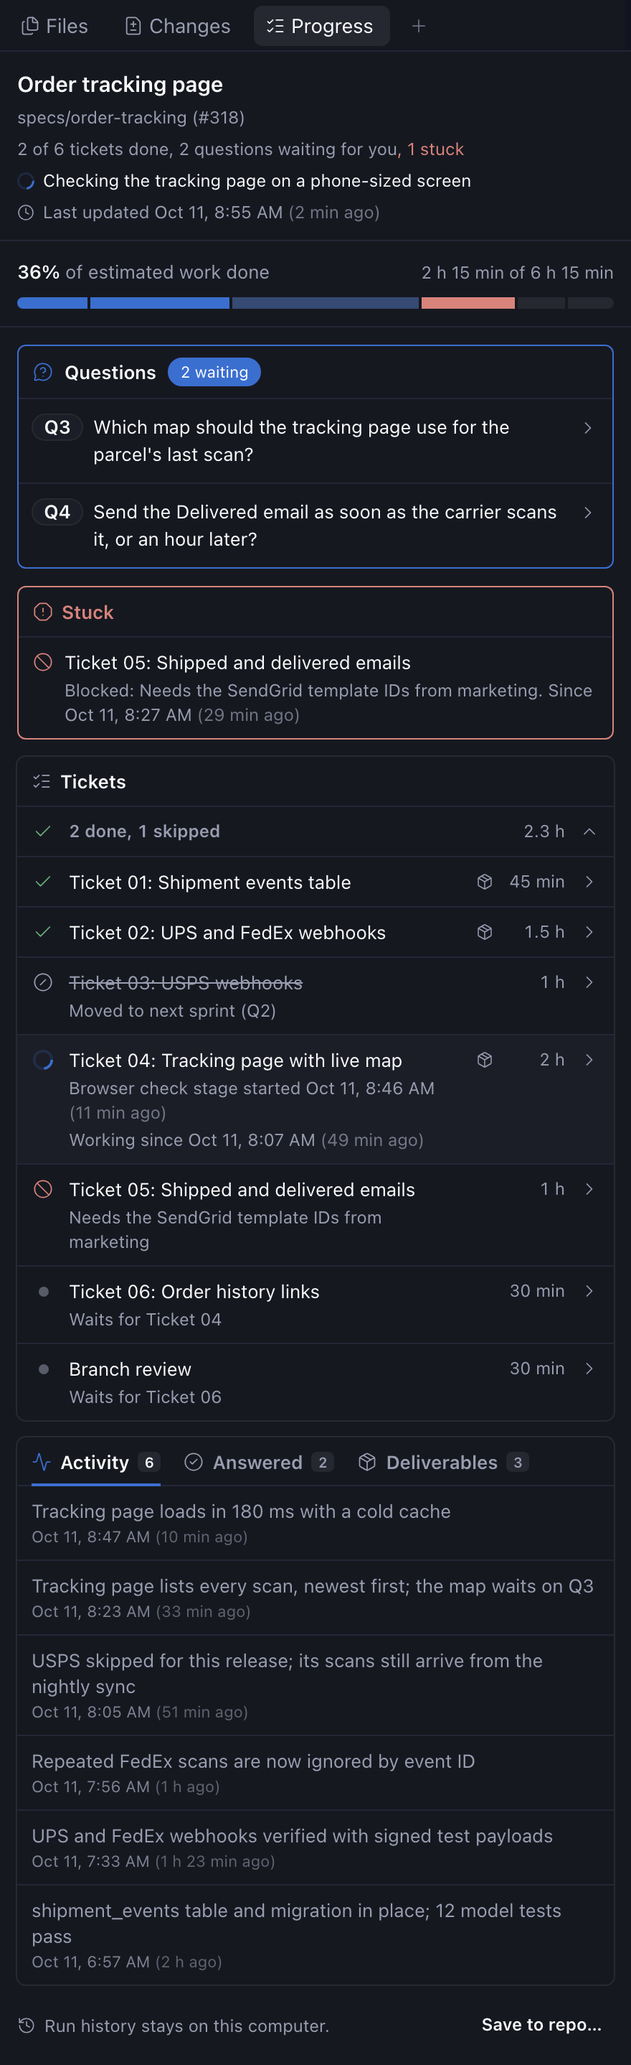
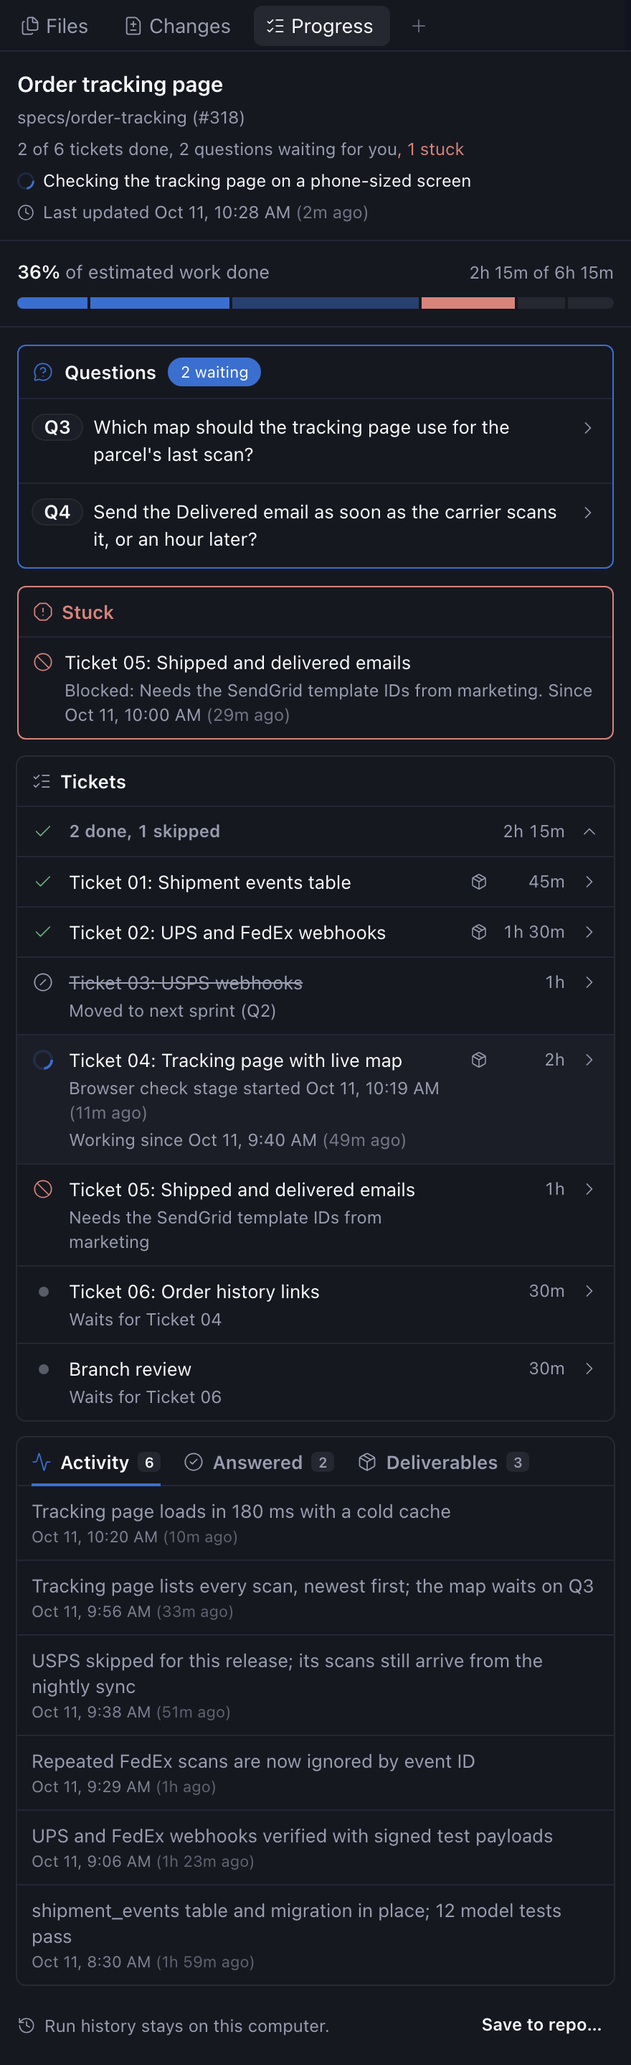
fix(progress): pill fits with something stuck, times stay in one piece, one duration style; bump to 1.0.0
The pill shortens questions to "2Q" when something is stuck, so it fits
Paseo's 160 px pill. Times like "(11m ago)" and durations inside sentences
wrap as one piece. Every duration uses the compact "2h 15m" style, and
estimates show the exact minutes instead of tenths of an hour.

diff --git a/progress/server/progress.test.ts b/progress/server/progress.test.ts
@@ -12,7 +12,7 @@ import type { PluginHandlerContext } from "@getpaseo/plugin/server";
 import { runCli } from "./cli.ts";
 import { handleGetAttention, handleGetDashboard, handleListFolders, handleMarkPanelOpened, handleSetHistoryFolder } from "./dashboard.ts";
 import { markPanelOpened, readProgress } from "./progress-file.ts";
-import { formatEstimate, formatMinutes, formatTimeOfDay, formatWorkDone } from "../shared/format.ts";
+import { formatMinutes, formatTimeOfDay, formatWorkDone } from "../shared/format.ts";
 import { finishedToFold, headlineText, type Ticket } from "../shared/dashboard.ts";
 import { defaultLauncherPath, installLauncher, launcherStatus } from "./launcher.ts";
 import { defaultSkillPaths, installSkill, skillSource, skillStatus } from "./skill.ts";
@@ -227,7 +227,7 @@ test("a worktree without a progress file reads as not configured", async (t) => 
 test("tickets added and updated by the agent show up with ids, statuses, and the headline", async (t) => {
   const w = await worktree(t);
   assert.deepEqual(await w.run("start", "Loan Options", "--subtitle", "Frozen links"), { code: 0, text: "Started run: Loan Options" });
-  assert.equal((await w.run("ticket", "add", "Ticket 01: Saved table", "--estimate", "120")).text, "Added T01: Ticket 01: Saved table (120 min)");
+  assert.equal((await w.run("ticket", "add", "Ticket 01: Saved table", "--estimate", "120")).text, "Added T01: Ticket 01: Saved table (2h)");
   await w.run("ticket", "add", "Ticket 02: Copy Link", "--estimate", "150");
   await w.run("ticket", "add", "Ticket 03: Frozen links", "--estimate", "120");
   await w.run("ticket", "add", "Ticket 04: Time zones", "--estimate", "75");
@@ -490,7 +490,7 @@ test("a ticket links to where it's written up: a file in the worktree or a link,
   await mkdir(join(w.directory, "specs"));
   await writeFile(join(w.directory, "specs", "01-login.md"), "# Login\n");
   await w.run("start", "Run");
-  assert.equal((await w.run("ticket", "add", "Ticket 01: Login", "--estimate", "30", "--source", "specs/01-login.md")).text, "Added T01: Ticket 01: Login (30 min), source specs/01-login.md");
+  assert.equal((await w.run("ticket", "add", "Ticket 01: Login", "--estimate", "30", "--source", "specs/01-login.md")).text, "Added T01: Ticket 01: Login (30m), source specs/01-login.md");
   await w.run("ticket", "add", "Ticket 02: Reset", "--estimate", "20", "--source", "https://linear.app/acme/issue/ENG-12=ENG-12");
   await w.run("ticket", "add", "Ticket 03: No write-up", "--estimate", "20");
   let { dashboard } = await w.dashboard();
@@ -581,11 +581,11 @@ async function screenshotRun(t: TestContext) {
   return w;
 }
 
-test("progress matches the reference dashboard: 58%, 4 h 30 min of 7 h 45 min", async (t) => {
+test("progress matches the reference dashboard: 58%, 4h 30m of 7h 45m", async (t) => {
   const w = await screenshotRun(t);
   const { progress } = (await w.dashboard()).dashboard;
   assert.equal(progress.percent, 58);
-  assert.equal(formatWorkDone(progress.doneMin, progress.totalMin), "4 h 30 min of 7 h 45 min");
+  assert.equal(formatWorkDone(progress.doneMin, progress.totalMin), "4h 30m of 7h 45m");
   assert.deepEqual(
     progress.segments.map(({ id, estimateMin, status }) => `${id}:${estimateMin}:${status}`),
     ["T01:120:done", "T02:150:done", "T03:120:working", "T04:75:not_started"],
@@ -627,7 +627,7 @@ test("once every ticket is done, the dashboard says how long the run really took
   await w.run("ticket", "update", "T03", "--status", "skipped");
   const { progress } = (await w.dashboard(200)).dashboard;
   assert.equal(progress.tookMin, 85, "from the start to the last ticket settling, not to now");
-  assert.match((await w.run("show")).text, /100% of estimated work done, took 1 h 25 min/);
+  assert.match((await w.run("show")).text, /100% of estimated work done, took 1h 25m/);
 });
 
 test("a run whose tickets are all done or skipped never turns stale", async (t) => {
@@ -642,20 +642,16 @@ test("display helpers format durations and hours the way the panel shows them", 
   const morning = new Date(2026, 9, 5, 2, 8).toISOString();
   assert.equal(formatTimeOfDay(morning, new Date(2026, 9, 5, 23, 0).getTime()), "2:08 AM", "same day: just the time");
   assert.equal(formatTimeOfDay(morning, new Date(2026, 9, 6, 9, 0).getTime()), "Oct 5, 2:08 AM", "another day: the date too");
-  assert.equal(formatMinutes(0.5), "<1 min");
-  assert.equal(formatMinutes(12), "12 min");
-  assert.equal(formatMinutes(602), "10 h 2 min");
-  assert.equal(formatMinutes(120), "2 h");
-  assert.equal(formatEstimate(45), "45 min", "estimates under an hour stay in minutes");
-  assert.equal(formatEstimate(60), "1 h");
-  assert.equal(formatEstimate(66), "1.1 h");
-  assert.equal(formatEstimate(90), "1.5 h");
-  assert.equal(formatEstimate(150), "2.5 h");
-  assert.equal(formatWorkDone(10, 10), "10 of 10 min", "under an hour, the unit is said once");
-  assert.equal(formatWorkDone(0, 45), "0 min of 45 min");
-  assert.equal(formatWorkDone(30, 120), "30 min of 2 h");
-  assert.equal(formatWorkDone(90, 120), "1 h 30 min of 2 h");
-  assert.equal(formatWorkDone(120, 120, 95), "1 h 35 min", "once done, the real time replaces the estimate");
+  assert.equal(formatMinutes(0.5), "<1m");
+  assert.equal(formatMinutes(12), "12m");
+  assert.equal(formatMinutes(602), "10h 2m");
+  assert.equal(formatMinutes(120), "2h");
+  assert.equal(formatMinutes(66), "1h 6m", "estimates read exactly as set");
+  assert.equal(formatWorkDone(10, 10), "10m of 10m");
+  assert.equal(formatWorkDone(0, 45), "0m of 45m");
+  assert.equal(formatWorkDone(30, 120), "30m of 2h");
+  assert.equal(formatWorkDone(90, 120), "1h 30m of 2h");
+  assert.equal(formatWorkDone(120, 120, 95), "1h 35m", "once done, the real time replaces the estimate");
 });
 
 test("a working ticket shows its stage and when that stage started", async (t) => {
@@ -914,10 +910,10 @@ test("show prints the dashboard as text for the agent", async (t) => {
   for (const expected of [
     "Loan Options",
     "2 of 4 tickets done, 1 question waiting for you, 1 stuck",
-    "58% of estimated work done, 4 h 30 min of 7 h 45 min",
-    "POSSIBLY STALE: no update for 10 h 17 min.",
-    "Ticket 03 (no update for longer than its 2 h estimate)",
-    "T03  Working, Fixes stage  2 h  Ticket 03",
+    "58% of estimated work done, 4h 30m of 7h 45m",
+    "POSSIBLY STALE: no update for 10h 17m.",
+    "Ticket 03 (no update for longer than its 2h estimate)",
+    "T03  Working, Fixes stage  2h  Ticket 03",
     "Q1 (Row spacing): Even out the spacing? You recommended B",
     "      B) No",
     "D1  Screenshots: .scratch/shots/, Ticket 03",

diff --git a/progress/client/panel.tsx b/progress/client/panel.tsx
@@ -8,12 +8,12 @@ import { Spinner, StalledPulse, WaitingDot } from "./spinner";
 import { IconSwap, Presence, StaggerRoot, nativeDriver } from "./motion";
 import { SectionTitle } from "./section-title";
 import { raised } from "./surfaces";
-import { When } from "./when";
+import { unbroken, When } from "./when";
 import React, { useEffect, useRef, useState } from "react";
 import { ActivityIndicator, Animated, Platform, ScrollView, Text, View } from "react-native";
 import { finishedToFold, isFinished, shortTitle, type Activity, type Dashboard, type FileIssue, type ProgressSegment, type StuckItem, type Ticket } from "../shared/dashboard";
 import type { TicketStatus } from "../shared/events";
-import { formatEstimate, formatMinutes, formatWorkDone, minutesSince } from "../shared/format";
+import { formatMinutes, formatWorkDone, minutesSince } from "../shared/format";
 import { markPanelOpened } from "../shared/rpc";
 import { useDashboard } from "./dashboard-query";
 import { STATUS_LABEL } from "./status-badge";
@@ -119,7 +119,7 @@ function StatusLine({ icon, children }: { icon: React.ReactNode; children: React
   );
 }
 
-// Re-renders on an interval so "x min ago" keeps counting between polls.
+// Re-renders on an interval so "11m ago" keeps counting between polls.
 function useNow(intervalMs: number): number {
   const [now, setNow] = useState(() => Date.now());
   useEffect(() => {
@@ -204,7 +204,7 @@ function DashboardView({ colors, dashboard, agentRunning, compact, workspaceId, 
           {/* Optical: centers the 14px icon on the first 18px line. */}
           <View style={{ paddingTop: 2 }}><Icon name="TriangleAlert" size={14} color={colors.statusWarning} /></View>
           <Text style={{ flex: 1, color: colors.statusWarning, fontSize: 12, lineHeight: 18 }}>
-            Possibly stale. No update for {formatMinutes(minutesSince(dashboard.updatedAt, now))}. The work may have stopped, so working items show a warning until the next update.
+            Possibly stale. No update for {unbroken(formatMinutes(minutesSince(dashboard.updatedAt, now)))}. The work may have stopped, so working items show a warning until the next update.
           </Text>
         </View>
       ) : null}</Presence>
@@ -389,7 +389,7 @@ function StuckSection({ colors, items, now }: { colors: Colors; items: StuckItem
           <View style={{ flex: 1, minWidth: 0, gap: 2 }}>
           <Text style={{ color: colors.foreground, fontSize: 13, lineHeight: 18 }}>{item.title}</Text>
           <Text style={{ color: colors.foregroundMuted, fontSize: 12, lineHeight: 17 }}>
-            {item.kind === "overdue" ? `No update for longer than its ${formatMinutes(item.estimateMin)} estimate. Last update ` : null}
+            {item.kind === "overdue" ? `No update for longer than its ${unbroken(formatMinutes(item.estimateMin))} estimate. Last update ` : null}
             {item.kind === "blocked" ? `Blocked${item.note ? `: ${item.note}` : ""}${narrow ? ", " : ". Since "}` : null}
             {item.kind === "manual" ? `${item.ticketId ? `${item.reason}. ` : ""}Flagged ` : null}
             <When colors={colors} iso={item.since} now={now} />
@@ -448,7 +448,7 @@ function FinishedRow({ colors, tickets, shown, onPress }: { colors: Colors; tick
       {/* Narrow ticket rows drop their chevron, so this total would sit off their estimate column. */}
       {narrow ? null : <>
         <View style={{ width: 12 }} />
-        <Text style={{ minWidth: 40, flexShrink: 0, textAlign: "right", color: colors.foregroundMuted, fontSize: 12, lineHeight: 18, fontVariant: ["tabular-nums"] }}>{estimateMin ? formatEstimate(estimateMin) : ""}</Text>
+        <Text style={{ minWidth: 44, flexShrink: 0, textAlign: "right", color: colors.foregroundMuted, fontSize: 12, lineHeight: 18, fontVariant: ["tabular-nums"] }}>{estimateMin ? formatMinutes(estimateMin) : ""}</Text>
       </>}
       <View style={{ paddingTop: 2 }}>
         <IconSwap swapKey={chevron} size={14}><Icon name={chevron} size={14} color={colors.foregroundMuted} /></IconSwap>
@@ -490,11 +490,11 @@ function TicketRow({ colors, ticket, live, now, onOpen, deliverables }: { colors
         ) : null}
         {ticket.note ? <Text style={{ color: colors.foregroundMuted, fontSize: 12, lineHeight: 17 }}>{ticket.note}</Text> : null}
       </View>
-      {/* Fixed slots so the Package icon and estimates line up down the list, whether or not a row has deliverables; they're listed in its dialog. The estimate slot fits "45 min" and "10.5 h"; longer ones grow rather than clip. */}
+      {/* Fixed slots so the Package icon and estimates line up down the list, whether or not a row has deliverables; they're listed in its dialog. The estimate slot fits "45m" up to "9h 45m"; longer ones grow rather than clip. */}
       <View accessibilityLabel={deliverables ? (deliverables === 1 ? "Has a deliverable" : `Has ${deliverables} deliverables`) : undefined} style={{ width: 12, height: 18, justifyContent: "center" }}>
         {deliverables ? <Icon name="Package" size={12} color={colors.foregroundMuted} /> : null}
       </View>
-      <Text style={{ minWidth: 40, flexShrink: 0, textAlign: "right", color: colors.foregroundMuted, fontSize: 12, lineHeight: 18, fontVariant: ["tabular-nums"] }}>{formatEstimate(ticket.estimateMin)}</Text>
+      <Text style={{ minWidth: 44, flexShrink: 0, textAlign: "right", color: colors.foregroundMuted, fontSize: 12, lineHeight: 18, fontVariant: ["tabular-nums"] }}>{formatMinutes(ticket.estimateMin)}</Text>
       {narrow ? null : <View style={{ paddingTop: 2 }}><Icon name="ChevronRight" size={14} color={colors.foregroundMuted} /></View>}
     </PressableRow>
   );

diff --git a/progress/shared/format.ts b/progress/shared/format.ts
@@ -3,30 +3,22 @@
 
 const MONTHS = ["Jan", "Feb", "Mar", "Apr", "May", "Jun", "Jul", "Aug", "Sep", "Oct", "Nov", "Dec"];
 
+// Durations in the compact style the other plugins and most dashboards use:
+// "45m", "2h", "2h 15m". Minutes are whole, so estimates read exactly as set.
 export function formatMinutes(totalMin: number): string {
   const whole = Math.max(0, Math.floor(totalMin));
-  if (whole < 1) return "<1 min";
+  if (whole < 1) return "<1m";
   const hours = Math.floor(whole / 60);
   const minutes = whole % 60;
-  if (!hours) return `${minutes} min`;
-  return minutes ? `${hours} h ${minutes} min` : `${hours} h`;
+  if (!hours) return `${minutes}m`;
+  return minutes ? `${hours}h ${minutes}m` : `${hours}h`;
 }
 
-// A ticket's estimate, the way people say one: "45 min" under an hour, then
-// hours to one decimal: "1 h", "1.5 h", "2.1 h".
-export function formatEstimate(totalMin: number): string {
-  if (totalMin < 60) return formatMinutes(totalMin);
-  return `${Math.round(totalMin / 6) / 10} h`;
-}
-
-// Estimated work done out of the total, in the units people estimate in:
-// "5 of 10 min", "1 h 30 min of 2 h". Under an hour on both sides, the unit is
-// said once.
-// Once everything is done, how long it really took instead: "1 h 20 min".
+// Estimated work done out of the total: "5m of 10m", "1h 30m of 2h".
+// Once everything is done, how long it really took instead: "1h 20m".
 export function formatWorkDone(doneMin: number, totalMin: number, tookMin?: number): string {
   if (tookMin !== undefined) return formatMinutes(tookMin);
-  if (totalMin < 60 && doneMin >= 1) return `${Math.floor(doneMin)} of ${formatMinutes(totalMin)}`;
-  return `${doneMin < 1 ? "0 min" : formatMinutes(doneMin)} of ${formatMinutes(totalMin)}`;
+  return `${doneMin < 1 ? "0m" : formatMinutes(doneMin)} of ${formatMinutes(totalMin)}`;
 }
 
 export function formatClock(iso: string): string {

diff --git a/progress/client/lifecycle.test.ts b/progress/client/lifecycle.test.ts
@@ -88,7 +88,9 @@ test("one rule decides what the pill shows, its icon, and whether pressing it op
   const phone = { phone: true };
   const cases: Array<[string, unknown, { phone: boolean }, unknown]> = [
     ["no progress file", { ...report(2, 1, true, false), configured: false }, desktop, null],
-    ["questions and stuck", report(2, 1, true, true), desktop, { mode: "attention", label: "2 questions · 1 stuck", icon: "stuck" }],
+    ["questions and stuck", report(2, 1, true, true), desktop, { mode: "attention", label: "2Q · 1 stuck", icon: "stuck" }],
+    ["questions only keep the full word", report(12, 0, true, true), desktop, { mode: "attention", label: "12 questions", icon: "questions" }],
+    ["stuck only", report(0, 2, true, true), desktop, { mode: "attention", label: "2 stuck", icon: "stuck" }],
     ["one question, even after the run closed", report(1, 0, false, true), desktop, { mode: "attention", label: "1 question", icon: "questions" }],
     ["a new run's panel never opened", report(0, 0, true, false), desktop, { mode: "started", label: "Progress", icon: "started" }],
     ["panel opened, desktop has Explorer", report(0, 0, true, true), desktop, null],
@@ -121,7 +123,7 @@ test("an agent's composer shows a pill while its workspace has questions waiting
   assert.equal(active().length, 2, "one pill per agent in a workspace that needs attention");
   const pill = active().find((entry) => entry.agentId === "a");
   assert.equal(pill?.placement, "composer");
-  assert.equal(pill?.button.label, "2 questions · 1 stuck");
+  assert.equal(pill?.button.label, "2Q · 1 stuck");
   assert.equal(pill?.button.behavior.kind, "popover", "the pill opens a popover with the questions");
   // The popover's Open Progress button opens the panel in Explorer.
   pill?.button.behavior.Content({ workspaceId: "w", close() {} }).props.openPanel();

diff --git a/progress/shared/show.ts b/progress/shared/show.ts
@@ -1,6 +1,6 @@
 import type { Dashboard } from "./dashboard.ts";
 import { headlineText, shortTitle } from "./dashboard.ts";
-import { formatAgo, formatClock, formatEstimate, formatMinutes, formatWorkDone, minutesSince } from "./format.ts";
+import { formatAgo, formatClock, formatMinutes, formatWorkDone, minutesSince } from "./format.ts";
 
 const STATUS: Record<string, string> = { not_started: "Not started", working: "Working", blocked: "Blocked", done: "Done", skipped: "Skipped" };
 
@@ -38,7 +38,7 @@ export function dashboardText(dashboard: Dashboard, nowMs: number): string {
   for (const ticket of dashboard.tickets) {
     const stage = ticket.status === "working" && ticket.stage ? `, ${ticket.stage} stage` : "";
     const status = ticket.waitingFor ? `Waiting for ${ticket.waitingFor.id}` : STATUS[ticket.status];
-    lines.push(`  ${ticket.id}  ${status}${stage}  ${formatEstimate(ticket.estimateMin)}  ${ticket.title}`);
+    lines.push(`  ${ticket.id}  ${status}${stage}  ${formatMinutes(ticket.estimateMin)}  ${ticket.title}`);
     if (ticket.source) lines.push(`      Source: ${ticket.source.path ?? ticket.source.url}${ticket.source.label ? ` (${ticket.source.label})` : ""}`);
   }
   if (dashboard.questions.open.length) {

diff --git a/progress/client/when.tsx b/progress/client/when.tsx
@@ -6,13 +6,20 @@ import { useNarrow } from "./narrow";
 
 type Colors = PluginWorkspacePanelProps["theme"]["colors"];
 
-// "Sep 27, 8:14 PM (10 h 2 min ago)", inline inside other text. A narrow
-// panel shows only "10 h 2 min ago"; the ticket dialog keeps the clock time.
+// A time like "2h 15m ago" inside wrapping text moves to the next line as one
+// piece instead of breaking after "2h".
+export function unbroken(text: string): string {
+  return text.replaceAll(" ", "\u00a0");
+}
+
+// "Sep 27, 8:14 PM (10h 2m ago)", inline inside other text. A narrow
+// panel shows only "10h 2m ago"; the ticket dialog keeps the clock time.
 export function When({ colors, iso, now }: { colors: Colors; iso: string; now: number }) {
-  if (useNarrow()) return <Text>{formatAgo(iso, now)}</Text>;
+  const ago = unbroken(formatAgo(iso, now));
+  if (useNarrow()) return <Text>{ago}</Text>;
   return (
     <Text>
-      {formatClock(iso)} <Text style={{ color: colors.foregroundMuted, opacity: 0.7 }}>({formatAgo(iso, now)})</Text>
+      {formatClock(iso)} <Text style={{ color: colors.foregroundMuted, opacity: 0.7 }}>({ago})</Text>
     </Text>
   );
 }

diff --git a/progress/server/cli.ts b/progress/server/cli.ts
@@ -11,6 +11,7 @@ import { findRoot, outside } from "./paths.ts";
 import { installLauncher } from "./launcher.ts";
 import { findStore, saveRunCopy } from "./store.ts";
 import { dashboardText } from "../shared/show.ts";
+import { formatMinutes } from "../shared/format.ts";
 import { imageMimeType } from "../shared/attachments.ts";
 import { homedir } from "node:os";
 
@@ -199,7 +200,7 @@ const commands: Record<string, Command> = {
       const id = state.nextIds.ticket;
       return {
         event: { type: "ticket.add", id, title, estimateMin, status: statusOption(values.status), waitsFor, source },
-        message: `Added ${id}: ${title} (${estimateMin} min)${waitsFor ? `, waits for ${waitsFor}` : ""}${source ? `, source ${source.path ?? source.url}` : ""}`,
+        message: `Added ${id}: ${title} (${formatMinutes(estimateMin)})${waitsFor ? `, waits for ${waitsFor}` : ""}${source ? `, source ${source.path ?? source.url}` : ""}`,
       };
     },
   },

diff --git a/progress/client/pill-state.ts b/progress/client/pill-state.ts
@@ -17,8 +17,10 @@ export function pillFor(report: AttentionResult | undefined, where: { phone: boo
   if (!report?.configured) return null;
   const { questions, stuck } = report;
   if (questions || stuck) {
+    // Paseo cuts composer pills off at 160 px, so when something is stuck
+    // too, the questions shorten to "2Q" to leave room for "1 stuck".
     const parts = [];
-    if (questions) parts.push(`${questions} ${questions === 1 ? "question" : "questions"}`);
+    if (questions) parts.push(stuck ? `${questions}Q` : `${questions} ${questions === 1 ? "question" : "questions"}`);
     if (stuck) parts.push(`${stuck} stuck`);
     return { mode: "attention", label: parts.join(" · "), icon: stuck ? "stuck" : "questions" };
   }

diff --git a/progress/README.md b/progress/README.md
@@ -10,7 +10,7 @@ The dashboard shows:
 
 - the run's title, a headline ("2 of 4 tickets done, 5 questions waiting for you, 1 stuck"), a one-line "now" ticker, and when it was last updated
 - a "possibly stale" warning after 15 minutes with no update while tickets remain, unless Paseo shows an agent in the workspace still running, and never once every ticket is done or skipped or the run is finished; working items swap their spinner for a pulsing amber warning
-- percent of estimated work done, time done of time estimated (like "1 h 30 min of 2 h"; once everything is done, how long it really took), and a bar with one segment per ticket
+- percent of estimated work done, time done of time estimated (like "1h 30m of 2h"; once everything is done, how long it really took), and a bar with one segment per ticket
 - **Stuck:** blocked tickets, working tickets with no update for longer than their estimate, and blockers the agent flags
 - **Tickets:** estimate, status, and the working ticket's stage. A ticket that waits for another (`--waits-for T03`) shows "Waits for Ticket 03" under its title until that one is done; waiting is the order of work, so it never counts as stuck, even if the agent also marked it blocked. Press a ticket for its story in a dialog. A summary on top shows its status and stage, time worked against the estimate as a bar that turns red past it, the agent's latest status line while it's working, and the agent on it. Tabs below hold the rest, each only when it has something: the ticket's write-up when it has a `--source` file (the start of it, with the rest a press away), a timeline of its stages and statuses with how long each took, and the activity, questions and deliverables that belong to it. The agent on a ticket shows by its chat title; pressing it opens that chat. Items tagged with `--ticket` belong exactly; older, untagged ones are matched by when they happened and marked "by time"
 - **Questions:** each with a permanent reference (Q1, Q2, ...), lettered options, and the option the agent recommends. The agent builds nothing a question affects until you answer; it works on other things meanwhile, and stops when nothing else is left. Press a question to open it in a dialog, then press **Copy Q2 B** to copy `Q2 (title): B` for your reply. Files and links the agent attached (`--file`) open like deliverables: images and text files preview in Paseo (with **Back** to the question), links open in Paseo's browser, and other files open in their default app. From the pill's popover, the preview opens over the popover, which stays open so you can go back to it. Answers stay listed under the same reference.
@@ -18,7 +18,7 @@ The dashboard shows:
 
 <img src="images/2-ticket.png" alt="A ticket's story: its status, time against the estimate, the agent on it, and its timeline" width="400"> <img src="images/3-question.png" alt="A question waiting for an answer, with lettered options, the agent's recommendation and Copy buttons" width="400">
 
-The panel lives in Explorer, beside the agent chat, so you can watch both. Open it from Command Center with **Open Progress**. When questions are waiting or something is stuck, a pill above the message box shows it (`3 questions · 1 stuck`). Pressing it opens a popover with each open question, its choices and their Copy buttons, and what is stuck, so you can answer without leaving the chat. **Open Progress** at the bottom opens the panel in Explorer.
+The panel lives in Explorer, beside the agent chat, so you can watch both. Open it from Command Center with **Open Progress**. When questions are waiting or something is stuck, a pill above the message box says so, for example `3 questions`. With something stuck too, it shortens to `3Q · 1 stuck` to fit. Pressing it opens a popover with each open question, its choices and their Copy buttons, and what is stuck, so you can answer without leaving the chat. **Open Progress** at the bottom opens the panel in Explorer.
 
 <img src="images/4-pill.png" alt="The pill above the message box, showing two questions waiting" width="600">
 
@@ -124,6 +124,14 @@ The progress file, `progress.jsonl`, holds one JSON event per line, each with a 
 - Stale warnings and overdue times use the daemon host's clock.
 
 ## Changelog
+
+### 1.0.0
+
+- Version 1.0. Nothing you use changes. From now on, a new first number means an update breaks something, a new middle number means a new feature, and a new last number means a fix.
+- The pill above the message box fits again when questions are waiting and something is stuck. It reads `2Q · 1 stuck`. Before, Paseo cut it off at `2 questions · 1 st…`.
+- A time like `(11m ago)` moves to the next line whole. It no longer splits in the middle.
+- Every duration uses one style, like `2h 15m`. Before, the progress bar said `2 h 15 min` and the finished tickets said `2.3 h` for the same work. Estimates show the minutes you set, so a 90-minute ticket reads `1h 30m`, not `1.5 h`.
+- New screenshots in this README.
 
 ### 0.4.0
 
